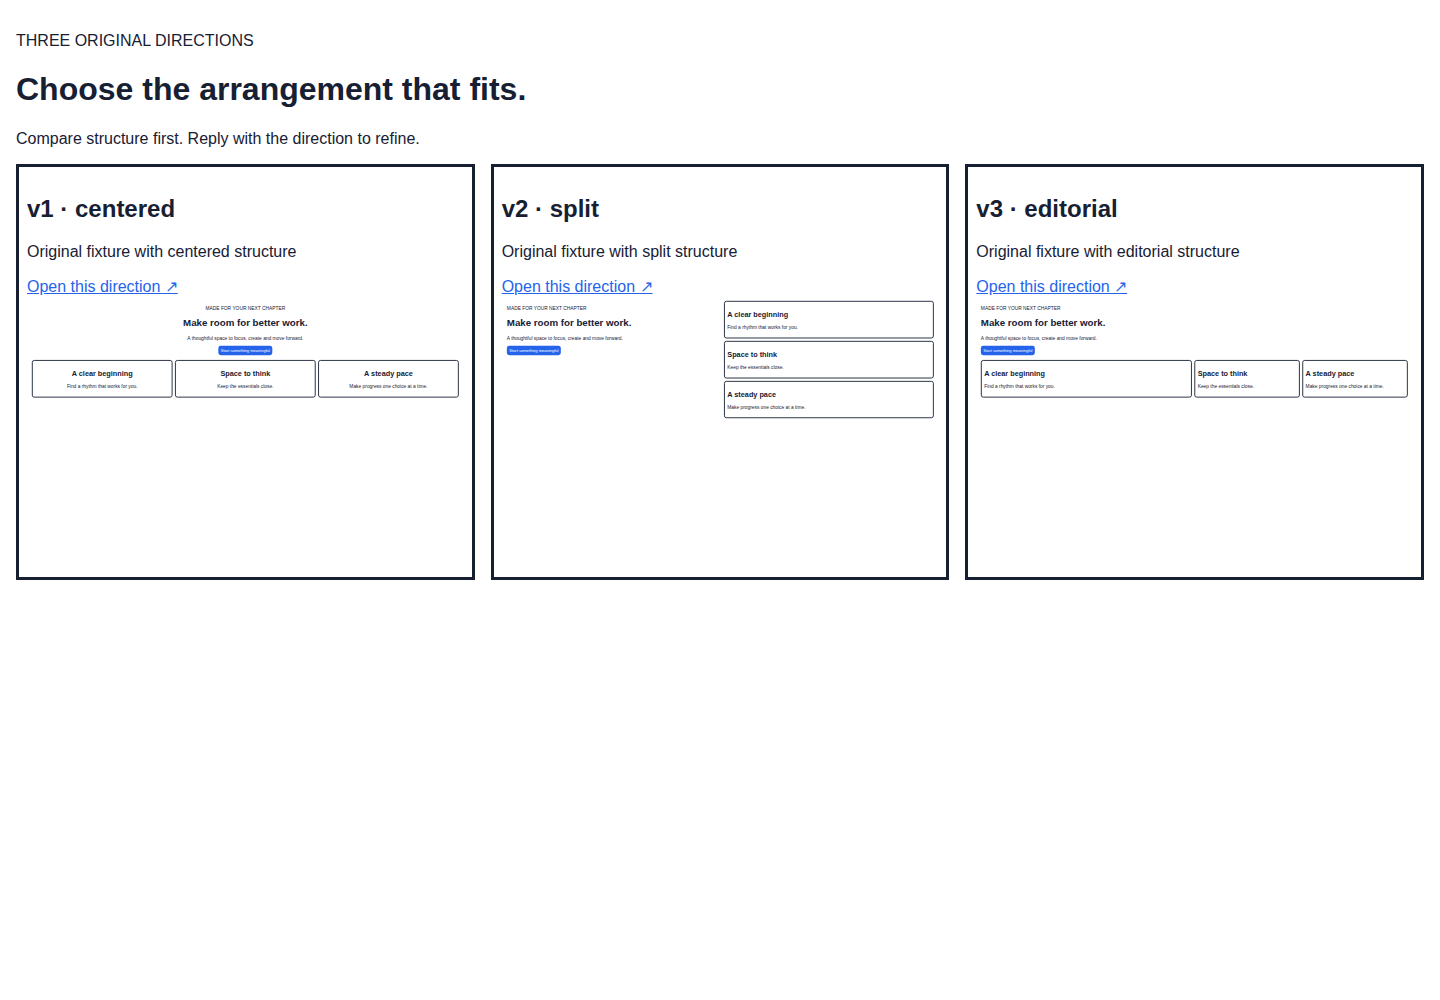
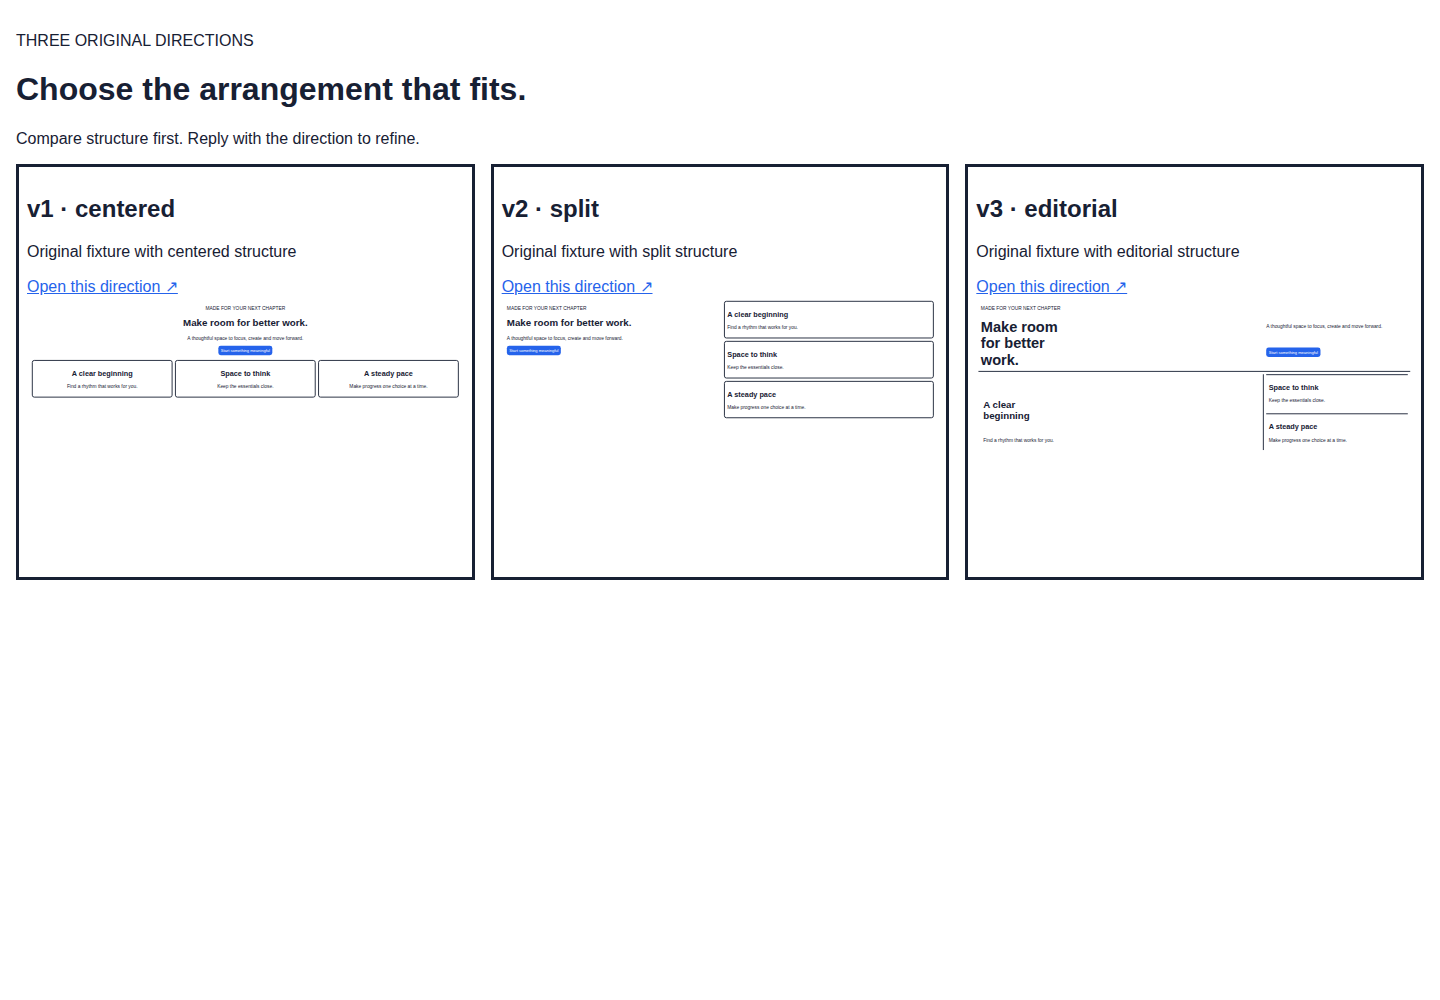
docs: refresh original fixture screenshots with asymmetric editorial direction

Changed region(s): [[0.6562, 0.31, 0.7812, 0.465], [0.8125, 0.341, 0.9688, 0.465]]

diff --git a/docs/screenshots/README.md b/docs/screenshots/README.md
@@ -3,8 +3,8 @@
 全部由 `node scripts/screenshots.mjs` 在 Linux Chromium 中生成，输入只有本仓库原创 fixture，不含真实网站截图或素材。
 
 - `inspiration-board.png`：原创风格站点的灵感投票看板。
-- `variant-comparison.png`：三个不同布局的方案对比。
+- `variant-comparison.png`：三个不同布局的方案对比：居中等宽卡片、左右分栏、不对称编辑式主副稿。
 - `preview-before.png`、`preview-after.png`：仅修改第一个卡片子树的前后效果。
 - `taste-share.png`：只有参考链接、文字及 CSS 色块的分享页。
 
-生成脚本对应的代码提交为 `cb21b07`，CI run 为 `41604702187`。截图来自该次 `fixture-screenshots` artifact。
+生成脚本对应的代码提交为 `95100e6`，CI run 为 `41608357704`。截图来自该次 `fixture-screenshots` artifact。
